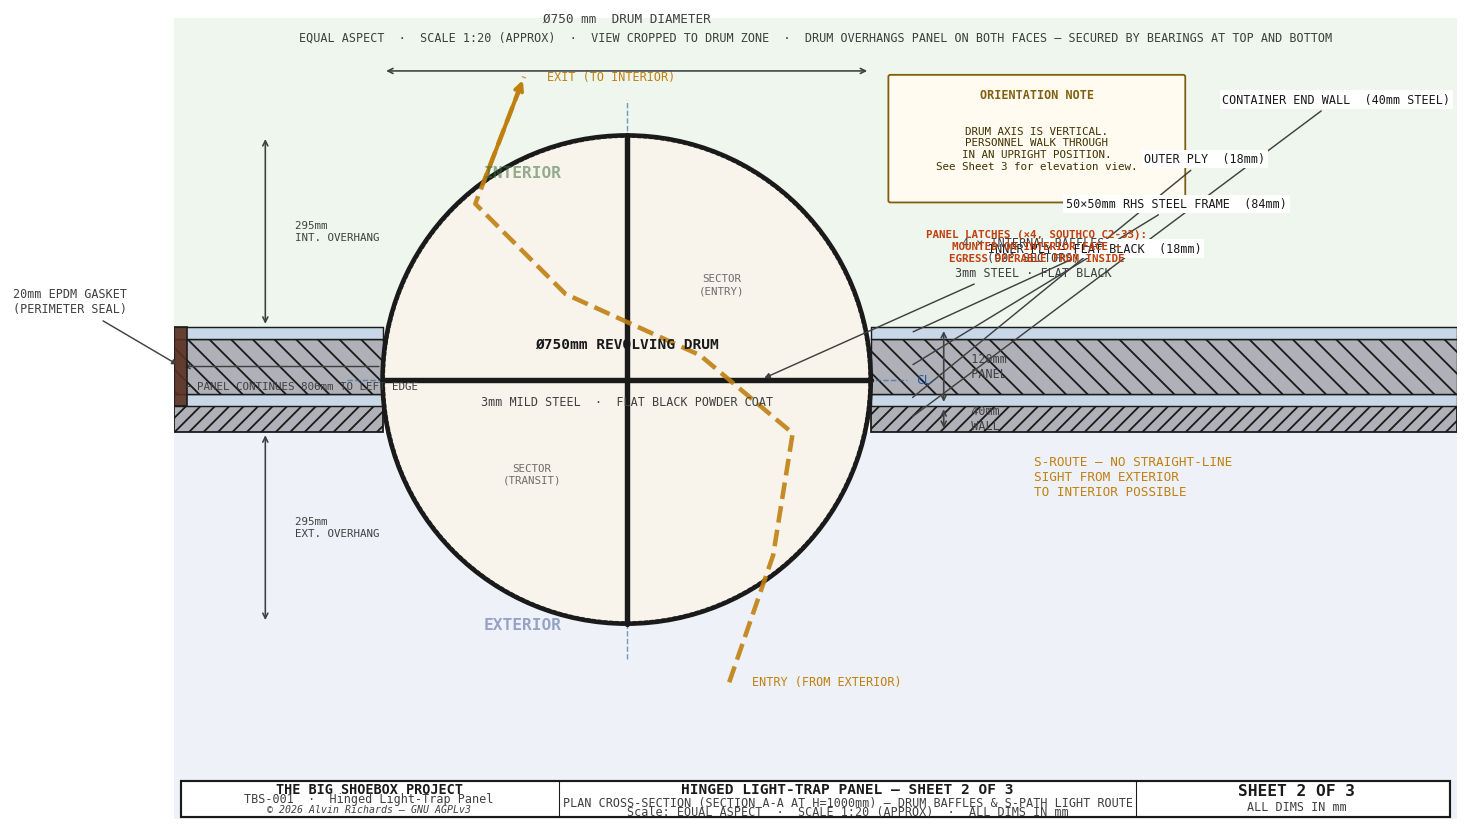
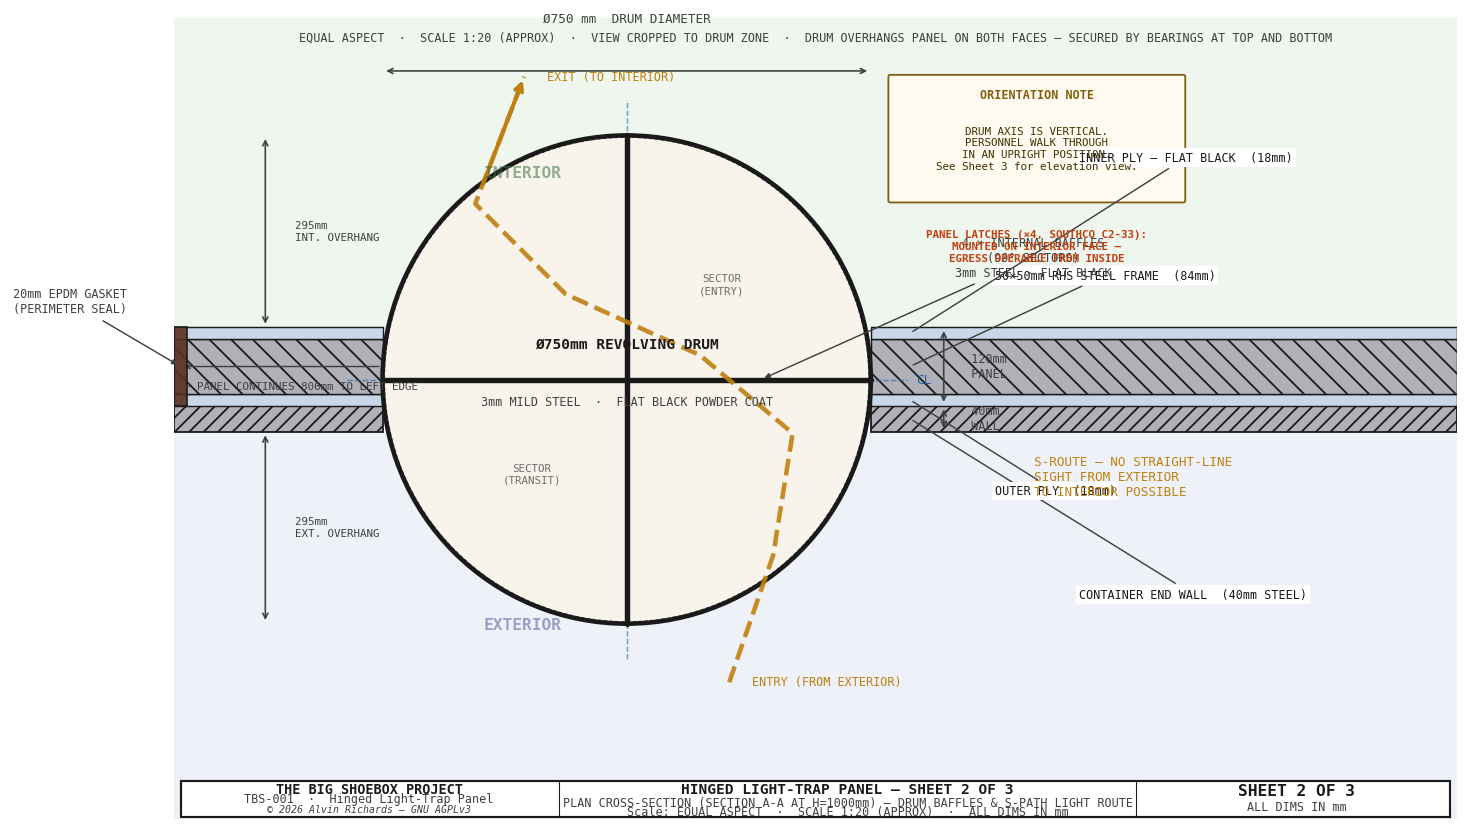
hingepanel-sheet2: split wall/panel leaders north and south to avoid overlap

diff --git a/generate_hingepanel_diagram.py b/generate_hingepanel_diagram.py
@@ -409,14 +409,24 @@ def sheet2():
     ax.add_patch(Rectangle((D_XR, Y0_W), X_HI - D_XR, WALL_T,
                             fc=C_STEEL, ec=C_OUT, lw=1.0, hatch="///", zorder=3))
     # 45° leader labels for wall and panel layers (too thin to label inline)
-    LBL_OFF = 120   # leader line offset increment
-    layers = [
-        (Y0_W + WALL_T / 2,   f"CONTAINER END WALL  ({WALL_T}mm STEEL)", 4 * LBL_OFF),
-        (Y0_PL + PLY_T / 2,   f"OUTER PLY  ({PLY_T}mm)",                 3 * LBL_OFF),
-        (Y0_FR + FRAME_T / 2, f"50×50mm RHS STEEL FRAME  ({FRAME_T}mm)", 2 * LBL_OFF),
-        (Y0_PL2 + PLY_T / 2,  f"INNER PLY — FLAT BLACK  ({PLY_T}mm)",    1 * LBL_OFF),
-    ]
-    for ly, lbl, off in layers:
+    # Split north/south to avoid overlap: exterior layers go south, interior go north
+    LBL_OFF = 130   # leader line offset increment
+    # South (downward) — wall and outer ply (exterior side)
+    for ly, lbl, off in [
+        (Y0_W + WALL_T / 2,  f"CONTAINER END WALL  ({WALL_T}mm STEEL)", 2 * LBL_OFF),
+        (Y0_PL + PLY_T / 2,  f"OUTER PLY  ({PLY_T}mm)",                 1 * LBL_OFF),
+    ]:
+        ax.annotate(lbl,
+                    xy=(D_XR + 60, ly),
+                    xytext=(D_XR + 60 + off, ly - off),
+                    fontsize=6.5, color=C_OUT, ha="left", va="top", **FONT,
+                    arrowprops=dict(arrowstyle="-", color=C_DIM, lw=0.8),
+                    bbox=dict(fc="white", ec="none", pad=1.5), zorder=15)
+    # North (upward) — frame and inner ply (interior side)
+    for ly, lbl, off in [
+        (Y0_FR + FRAME_T / 2, f"50×50mm RHS STEEL FRAME  ({FRAME_T}mm)", 1 * LBL_OFF),
+        (Y0_PL2 + PLY_T / 2,  f"INNER PLY — FLAT BLACK  ({PLY_T}mm)",    2 * LBL_OFF),
+    ]:
         ax.annotate(lbl,
                     xy=(D_XR + 60, ly),
                     xytext=(D_XR + 60 + off, ly + off),
